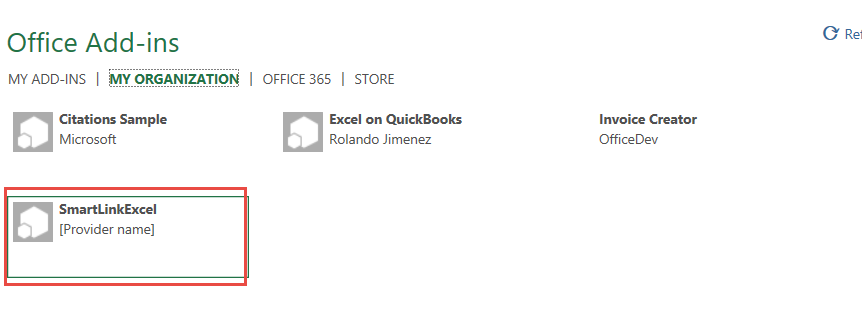
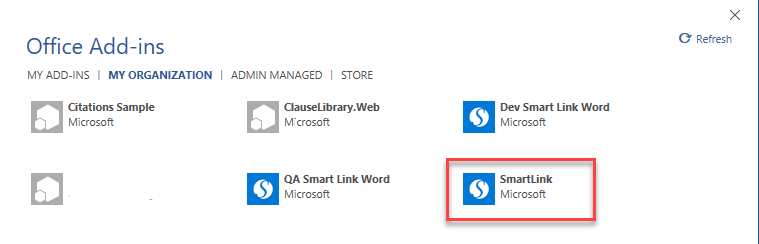
Update README file

diff --git a/README.md b/README.md
@@ -220,6 +220,7 @@ administratorLoginPasswordMSFin SmartLink Code Sample
 
    - Open the solution.
    - Include the PFX certificate in SmartLink.WebJob project. 
+   - Include the PFX certificate in SmartLink.DocumentWebJob project.
 
    **For example:** smartlinkqa.pfx.
 
@@ -270,7 +271,8 @@ administratorLoginPasswordMSFin SmartLink Code Sample
 | ida:domain                | yourtenantname.onmicrosoft.com        |                                          |
 | ida:PostLogoutRedirectUri | https://websitename.azurewebsites.net | Azure web site URL                       |
 | ResourceId                | https://graph.microsoft.com           | this is fixed value                      |
-| ConsentResource           | https://yourtenantname.sharepoint.com |                                          |
+| SharePointUrl           	| https://yourtenantname.sharepoint.com | The root site collection of the O365 site             
+| Key						| 23, 7, 19, 11, 24, 226, 85, 45, 114, 184, 27, 162, 37, 112, 222, 209, 241, 24, 175, 144, 176, 53, 196, 29, 24, 26, 17, 218, 131, 236, 53, 209 | Encrypt key, this is fixed value      
 
 ![](Images/configuration.png)
 
@@ -290,7 +292,7 @@ administratorLoginPasswordMSFin SmartLink Code Sample
 
 9. Click *'Publish'*
 
-## Upload the Excel & Word manifest files
+## Upload the Add-in manifest file
 
 1. Go to the app for Office add-in management page. 
 
@@ -300,21 +302,36 @@ administratorLoginPasswordMSFin SmartLink Code Sample
 
    ![](Images/appforoffice.png)
 
-3. Find the Excel [app manifest file](SmartLinkExcel/SmartLinkExcelManifest/SmartLinkExcel.xml) & Word [app manifest file](SmartLinkWord/SmartLinkWordManifest/SmartLinkWord.xml)
+3. Find the [app manifest file](SmartLinkExcel/SmartLinkExcelManifest/SmartLinkExcel.xml).
 
-4. Update the Excel & Word manifest files.
+4. Update the manifest file.
 
    - Update the Id with a new generated GUID and you could refer to the link below on how to generate it. [https://guidgenerator.com/online-guid-generator.aspx](https://guidgenerator.com/online-guid-generator.aspx) 
 
      > Note: please generate new GUID for the Word manifest file.
 
+   - Update the display name and description default value to SmartLink. 
+
+   - Update the icon url default value to the one provisioned in Azure.
+
+	 **For example:** `[https://<yourwebsitename>.azurewebsites.net/Images/logo.png](https://<yourwebsitename>.azurewebsites.net/Images/logo.png)`   
+
+   - Update the hosts to the following elements.
+   	
+	```
+	<Host Name="Workbook" />
+    <Host Name="Document" />
+    <Host Name="Presentation" />
+	
+	```
+   
    - Update the source location default value to the one provisioned in Azure.
 
-     **For example:** `[https://<yourwebsitename>.azurewebsites.net/Home/Index](https://msfinsmartlinkqa.azurewebsites.net/Home/Index)` 
+     **For example:** `[https://<yourwebsitename>.azurewebsites.net/Home/Index](https://<yourwebsitename>.azurewebsites.net/Home/Index)` 
 
      ![](Images/excelmanifest.png)
 
-5. Upload manifest file *SmartLinkExcel.xml* & *SmartLinkWord.xml* to the SharePoint catalog.
+5. Upload manifest file *SmartLinkExcel.xml* to the SharePoint catalog.
 
 ## Install Excel Add-in
 
@@ -342,7 +359,7 @@ administratorLoginPasswordMSFin SmartLink Code Sample
 
    ![](Images/insertexceladdin.png)
 
-8. Click *MY ORGANIZATION* and insert the *SmartLinkExcel*. 
+8. Click *MY ORGANIZATION* and insert the *SmartLink*. 
 
    ![](Images/SelectAddIn.png)
 
@@ -370,15 +387,37 @@ administratorLoginPasswordMSFin SmartLink Code Sample
 
 7. Click *Insert* and *My Add-ins*.
 
-8. Click *MY ORGANIZATION* and insert the *SmartLinkWord*.
+8. Click *MY ORGANIZATION* and insert the *SmartLink*.
 
 9. Then the Word Add-in would be shown on the task panel.
 
 
+## Install PowerPoint Add-in
+
+1. Open PowerPoint 2016
+
+2. Sign in with your O365 account. 
+
+3. Click *File* | *Options*
+
+4. Click *Trust Center* | *Trust Center settings*.
+
+   ![](Images/WordTrustCenter.png)
+
+5. Click *Trusted Add-in Catalogs* | Add catalog URL
+
+   **For example:** `https://<tenantname>.sharepoint.com/sites/AppCatelog`
+
+6. Restart PowerPoint.
+
+7. Click *Insert* and *My Add-ins*.
+
+8. Click *MY ORGANIZATION* and insert the *SmartLink*.
+
+9. Then the PowerPoint Add-in would be shown on the task panel.
 
 
-
-## Run Excel & Word Add-ins
+## Run Excel, Word & PowerPoint Add-ins
 
 1. Work with your O365 admin to go to admin consent page in the browser. 
 
@@ -408,7 +447,8 @@ administratorLoginPasswordMSFin SmartLink Code Sample
 
    - Edit the source point form.
 
-     - Fill the Source Point name
+     - Select the range (only one cell is supported, please do not double click the cell.  Click Esc if double click the cell.)
+     - Click the populating cell address button
      - Select group
      - Select the range (only one cell is supported, please do not double click the cell.  Click Esc if double click the cell.)
      - Click the populating cell address button
@@ -435,6 +475,18 @@ administratorLoginPasswordMSFin SmartLink Code Sample
 11. Save the word document and close it. 
 
 12. You could refer to the 2 section on [how to view the SQL data](#how-to-view-azure-sql-data) and [how to view data in the storage account](#how-to-view-data-in-the-storage-account).
+
+13. Open a PowerPoint file under the same document library where Excel file hosted in O365 site.
+
+14. Use your O365 account to login the PowerPoint add-in.
+	
+   - Click select file button
+	 
+   ![](Images/powerpointselectfile.png)
+
+15. Select the Excel file hosts the source points. 
+
+   ![](Images/fileexplorer.png)
 
 
 ## How to view Azure SQL data?
@@ -610,29 +662,35 @@ administratorLoginPasswordMSFin SmartLink Code Sample
 
 6. Update the JavaScript file to support the local debug for Excel add-in.
 
-   - Open the [SignIn.js](SmartLink.Web/Scripts/App/SignIn.js) and update the isDev property value from false to true.
-
    - Make sure that an Excel file is uploaded to the document library in SharePoint site within your tenant. 
 
-   - Copy the Excel file link and update link in [Point.js](SmartLink.Web/Scripts/App/Excel/Point.js) in line 45
-
-   - Find the disk drive where solution hosts (**For example:** E disk) and update E: to that disk drive in [Point.js](SmartLink.Web/Scripts/App/Excel/Point.js) in line 45.
+   - Copy the Excel file link and update link in [Point.js](SmartLink.Web/Scripts/App/Excel/Point.js) in line 59.
 
      ```javascript
-      that.filePath = Office.context.document.url.indexOf("E:") > -1 ? "https://<yourtenantname>.sharepoint.com/Shared%20Documents/Book.xlsx" : 
+      that.filePath = window.location.href.indexOf("localhost") > -1 ? "https://<yourtenantname>.sharepoint.com/Shared%20Documents/Book.xlsx" : Office.context.document.url;
      ```
 
 7. Update the JavaScript file to support the local debug for Word add-in.
 
    - Make sure that an Excel file is uploaded to the document library in SharePoint site within your tenant. 
 
-   - Copy the Word file link and update link in [Point.js](SmartLink.Web/Scripts/App/Excel/Point.js) in line 55
+   - Copy the Word file link and update link in [Point.js](SmartLink.Web/Scripts/App/Excel/Point.js) in line 68.
 
      ```javascript
-     that.filePath = Office.context && Office.context.document && Office.context.document.url ? Office.context.document.url : "https://<yourtenantname>.sharepoint.com/Shared%20Documents/Test.docx";
+     that.filePath = window.location.href.indexOf("localhost") > -1 ? "https://<yourtenantname>.sharepoint.com/Shared%20Documents/Test.docx" : Office.context.document.url;
      ```
 
-8. Set SmartLinkExcel as StartUp project, and press F5.
+8. Update the JavaScript file to support the local debug for PowerPoint add-in.
+
+   - Make sure that an PowerPoint file is uploaded to the document library in SharePoint site within your tenant. 
+
+   - Copy the PowerPoint file link and update link in [Point.js](SmartLink.Web/Scripts/App/PowerPoint/Point.js) in line 77.
+
+     ```javascript
+     that.filePath = window.location.href.indexOf("localhost") > -1 ? "https://<yourtenantname>.sharepoint.com/Shared%20Documents/Presentation.pptx" : Office.context.document.url;
+     ```
+
+9. Set SmartLinkExcel as StartUp project, and press F5.
 
    - Work with your O365 admin to go to admin consent page in the browser. 
 
@@ -646,31 +704,33 @@ administratorLoginPasswordMSFin SmartLink Code Sample
 
    - Click *add* and edit the source point form.
 
-     - Fill the Source Point name
-
-     - Select group
-
      - Select the range (only one cell is supported, please do not double click the cell.  Click Esc if double click the cell.)
-
+     
      - Click the populating cell address button
-
+     
+     - Select group
+     
+     - Select the range (only one cell is supported, please do not double click the cell.  Click Esc if double click the cell.)
+     
+     - Click the populating cell address button
+     
      - Save the changes
+		
+	 ![](Images/addnewsourcepointstepbystep.png) 
+		 
+		> 
+		> **Note:** By default, you could debug the JavaScript file by setting the breakpoint in it.You could also attach the process to debug the web application code when click save.  This is same for debugging the Word add-in.
+		
+		![](Images/debugsp.png)
+		
+		![](Images/attachprocess.png)
 
-       ![](Images/addsplocal.png)
+		![](Images/attachiisexpressprocess.png)
 
-     > **Note:** By default, you could debug the JavaScript file by setting the breakpoint in it.You could also attach the process to debug the web application code when click save.  This is same for debugging the Word add-in.
+		![](Images/debugspsave.png)
 
-     ![](Images/debugsp.png)
 
-      ![](Images/attachprocess.png)
-
-     ![](Images/attachiisexpressprocess.png)
-
-     
-
-                       ![](Images/debugspsave.png)
-
-9. Set SmartLinkWord as StartUp project and press F5
+10. Set SmartLinkWord as StartUp project and press F5
 
    - Open the words add-in in your local.
 
@@ -687,6 +747,17 @@ administratorLoginPasswordMSFin SmartLink Code Sample
    - Click Add to add the destination point.
 
      ![](Images/adddp.png)
+
+
+11. Set SmartLinkPowerPoint as StartUp project and press F5
+
+   - Open the PowerPoint add-in in your local.
+
+   - Click select file and browse source point file.
+
+   - Select the Excel file hosts the source points. 
+
+     ![](Images/fileexplorer.png)
 
 
 ## Understand the code
